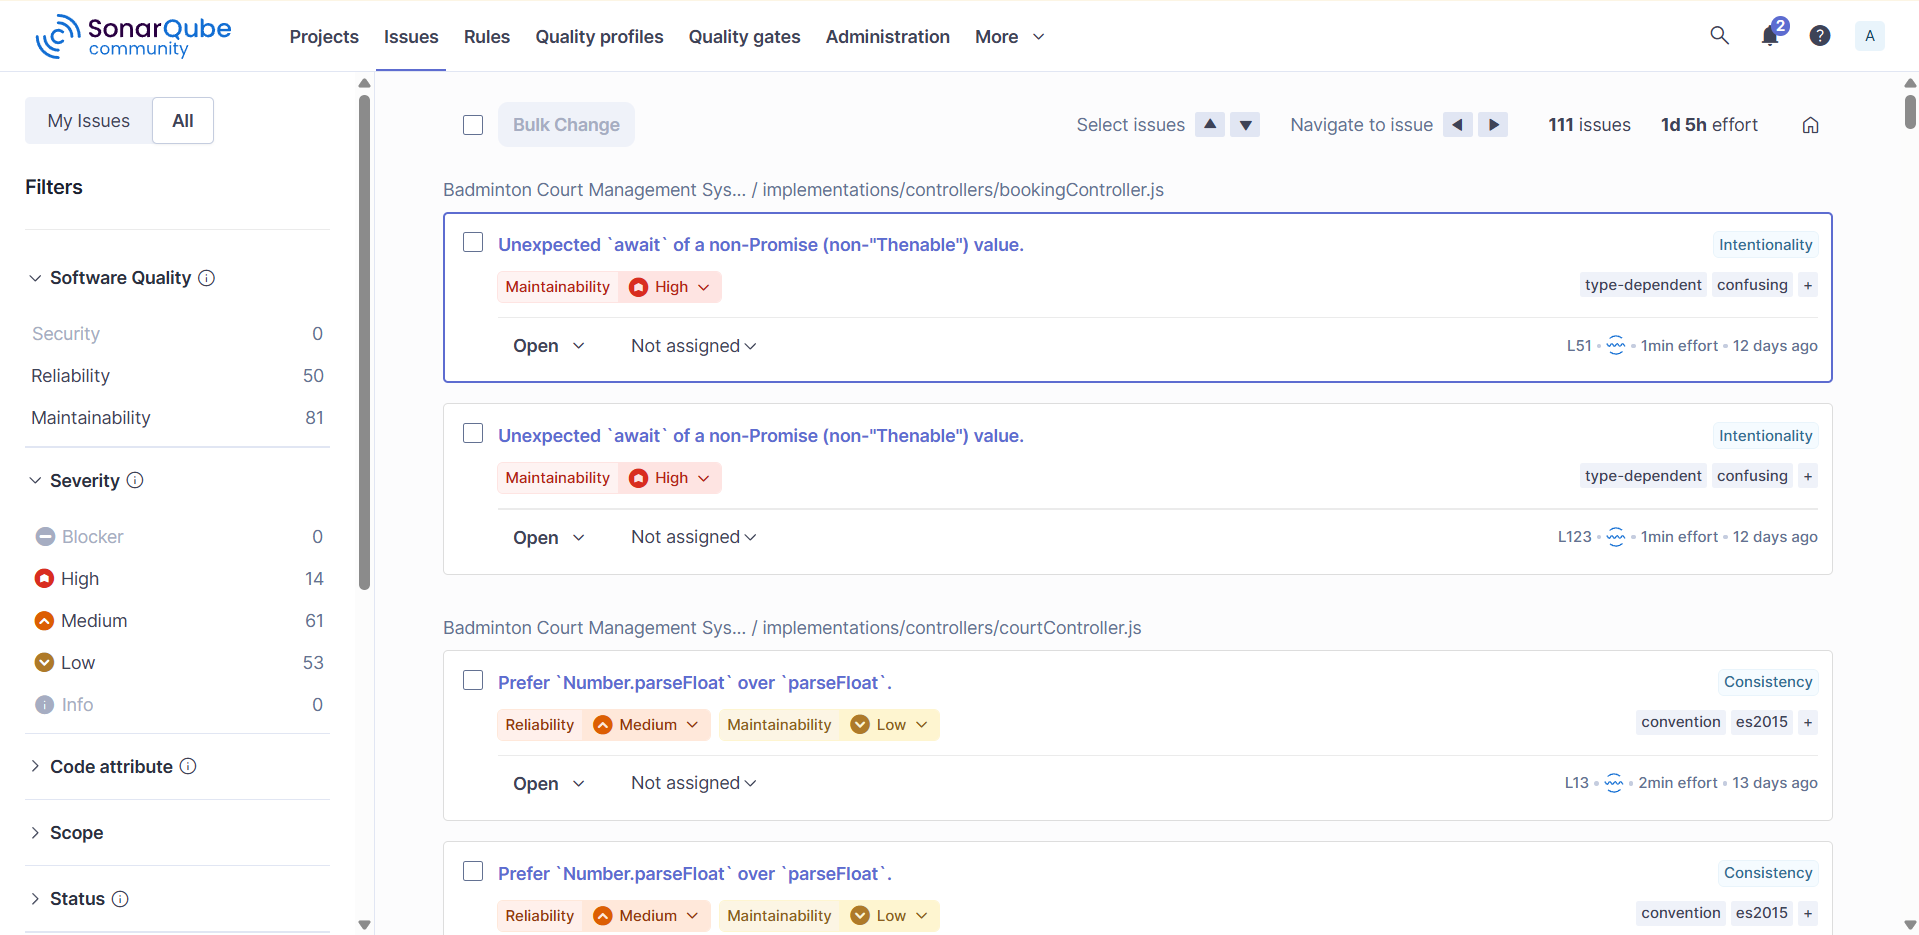
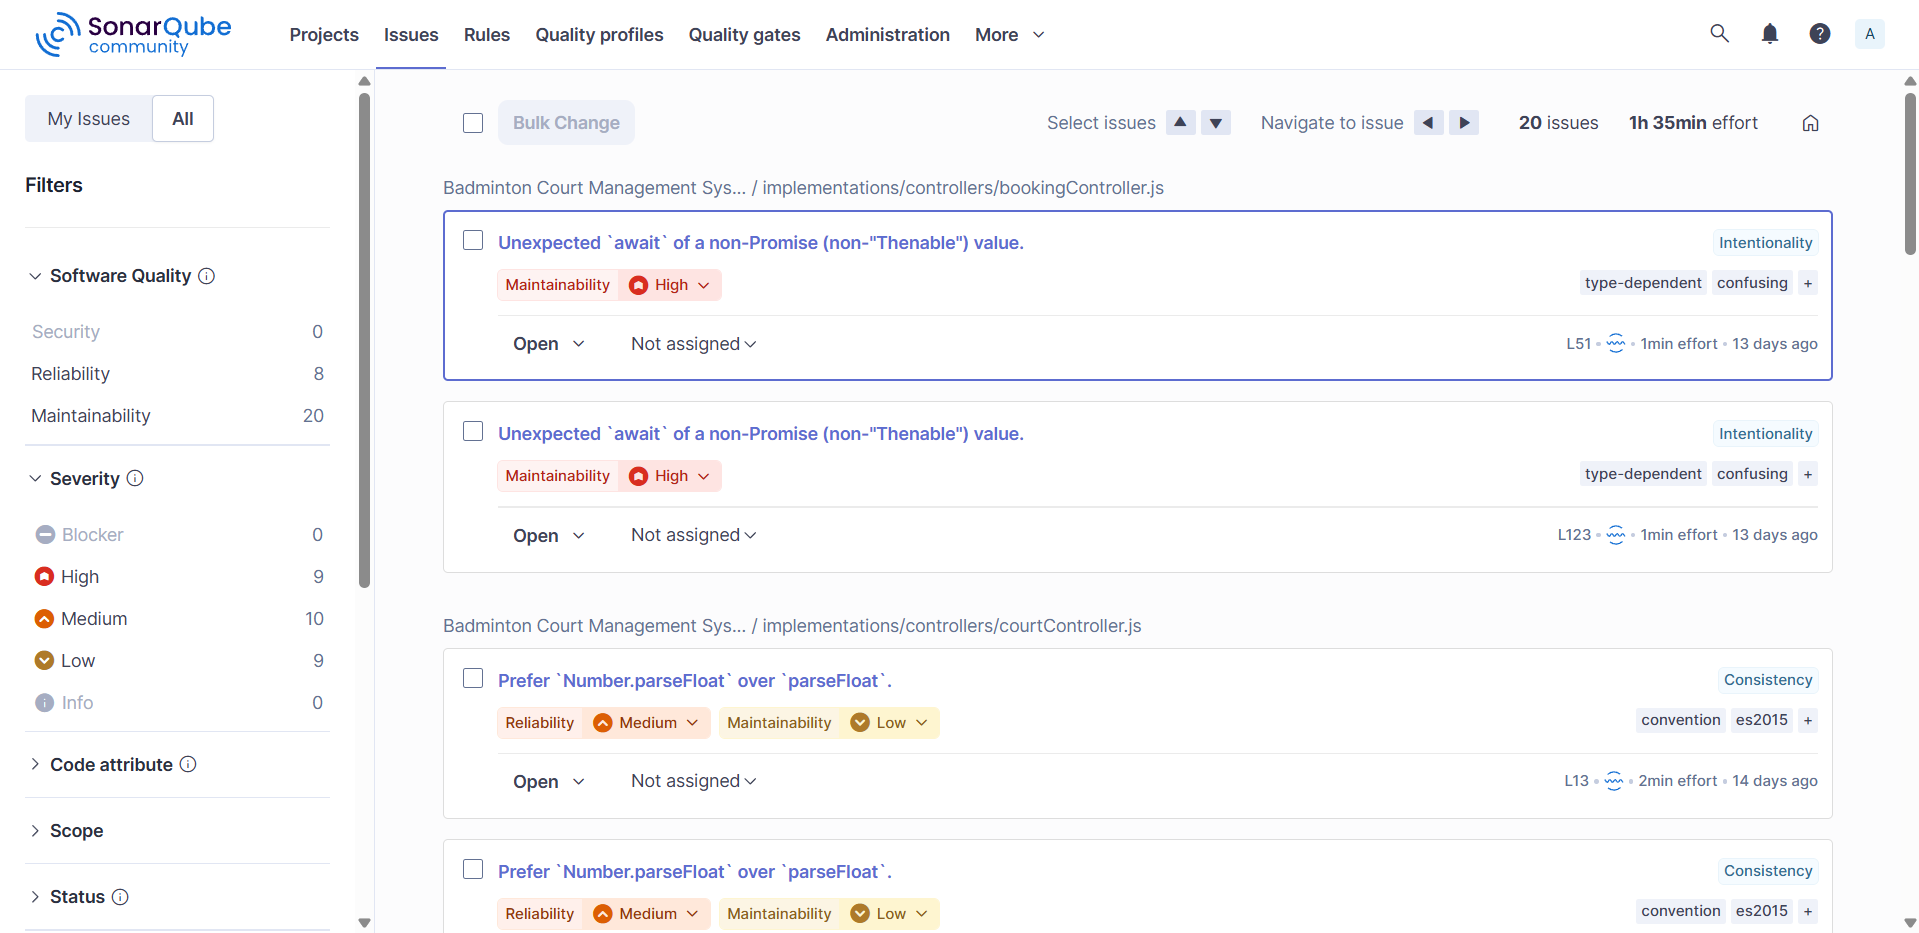
update code quality in HANDOVER.md

diff --git a/HANDOVER.md b/HANDOVER.md
@@ -408,25 +408,26 @@ npm test
 ### Code quality analysis 
 Unfortunately, the original group only attatched a new code analysis, there are no overall code analysis and severity issues. Therefore, we run SonarQube analysis, the result show the following:  
 
-![alt text](picture/image.png)
-![alt text](picture/image2.png)
+![alt text](/picture/image.png)  
+
+![alt text](/picture/image-1.png)
 
 ### Severity issues  
 
 After we run SonarQube locally to compared, we noticed that the project has no blocker issues but there are still several issues across other severity levels:
 - Blocker: 0
-- High: 14
-- Medium: 61
-- Low: 53
+- High: 0
+- Medium: 10
+- Low: 9
 - Info: 0  
   
 ### Overall code quality metrics  
 The overall code analysis shows the following:  
 
 - Security issues: 0
-- Reliability issues: 50
-- Maintainability issues: 81
+- Reliability issues: 8
+- Maintainability issues: 20
 - Accepted issues: 0
-- Coverage: 56.6%
-- Duplication: 0.9%
-- Security hotspots: 32
+- Coverage: 95.9%
+- Duplication: 0.0%
+- Security hotspots: 1
